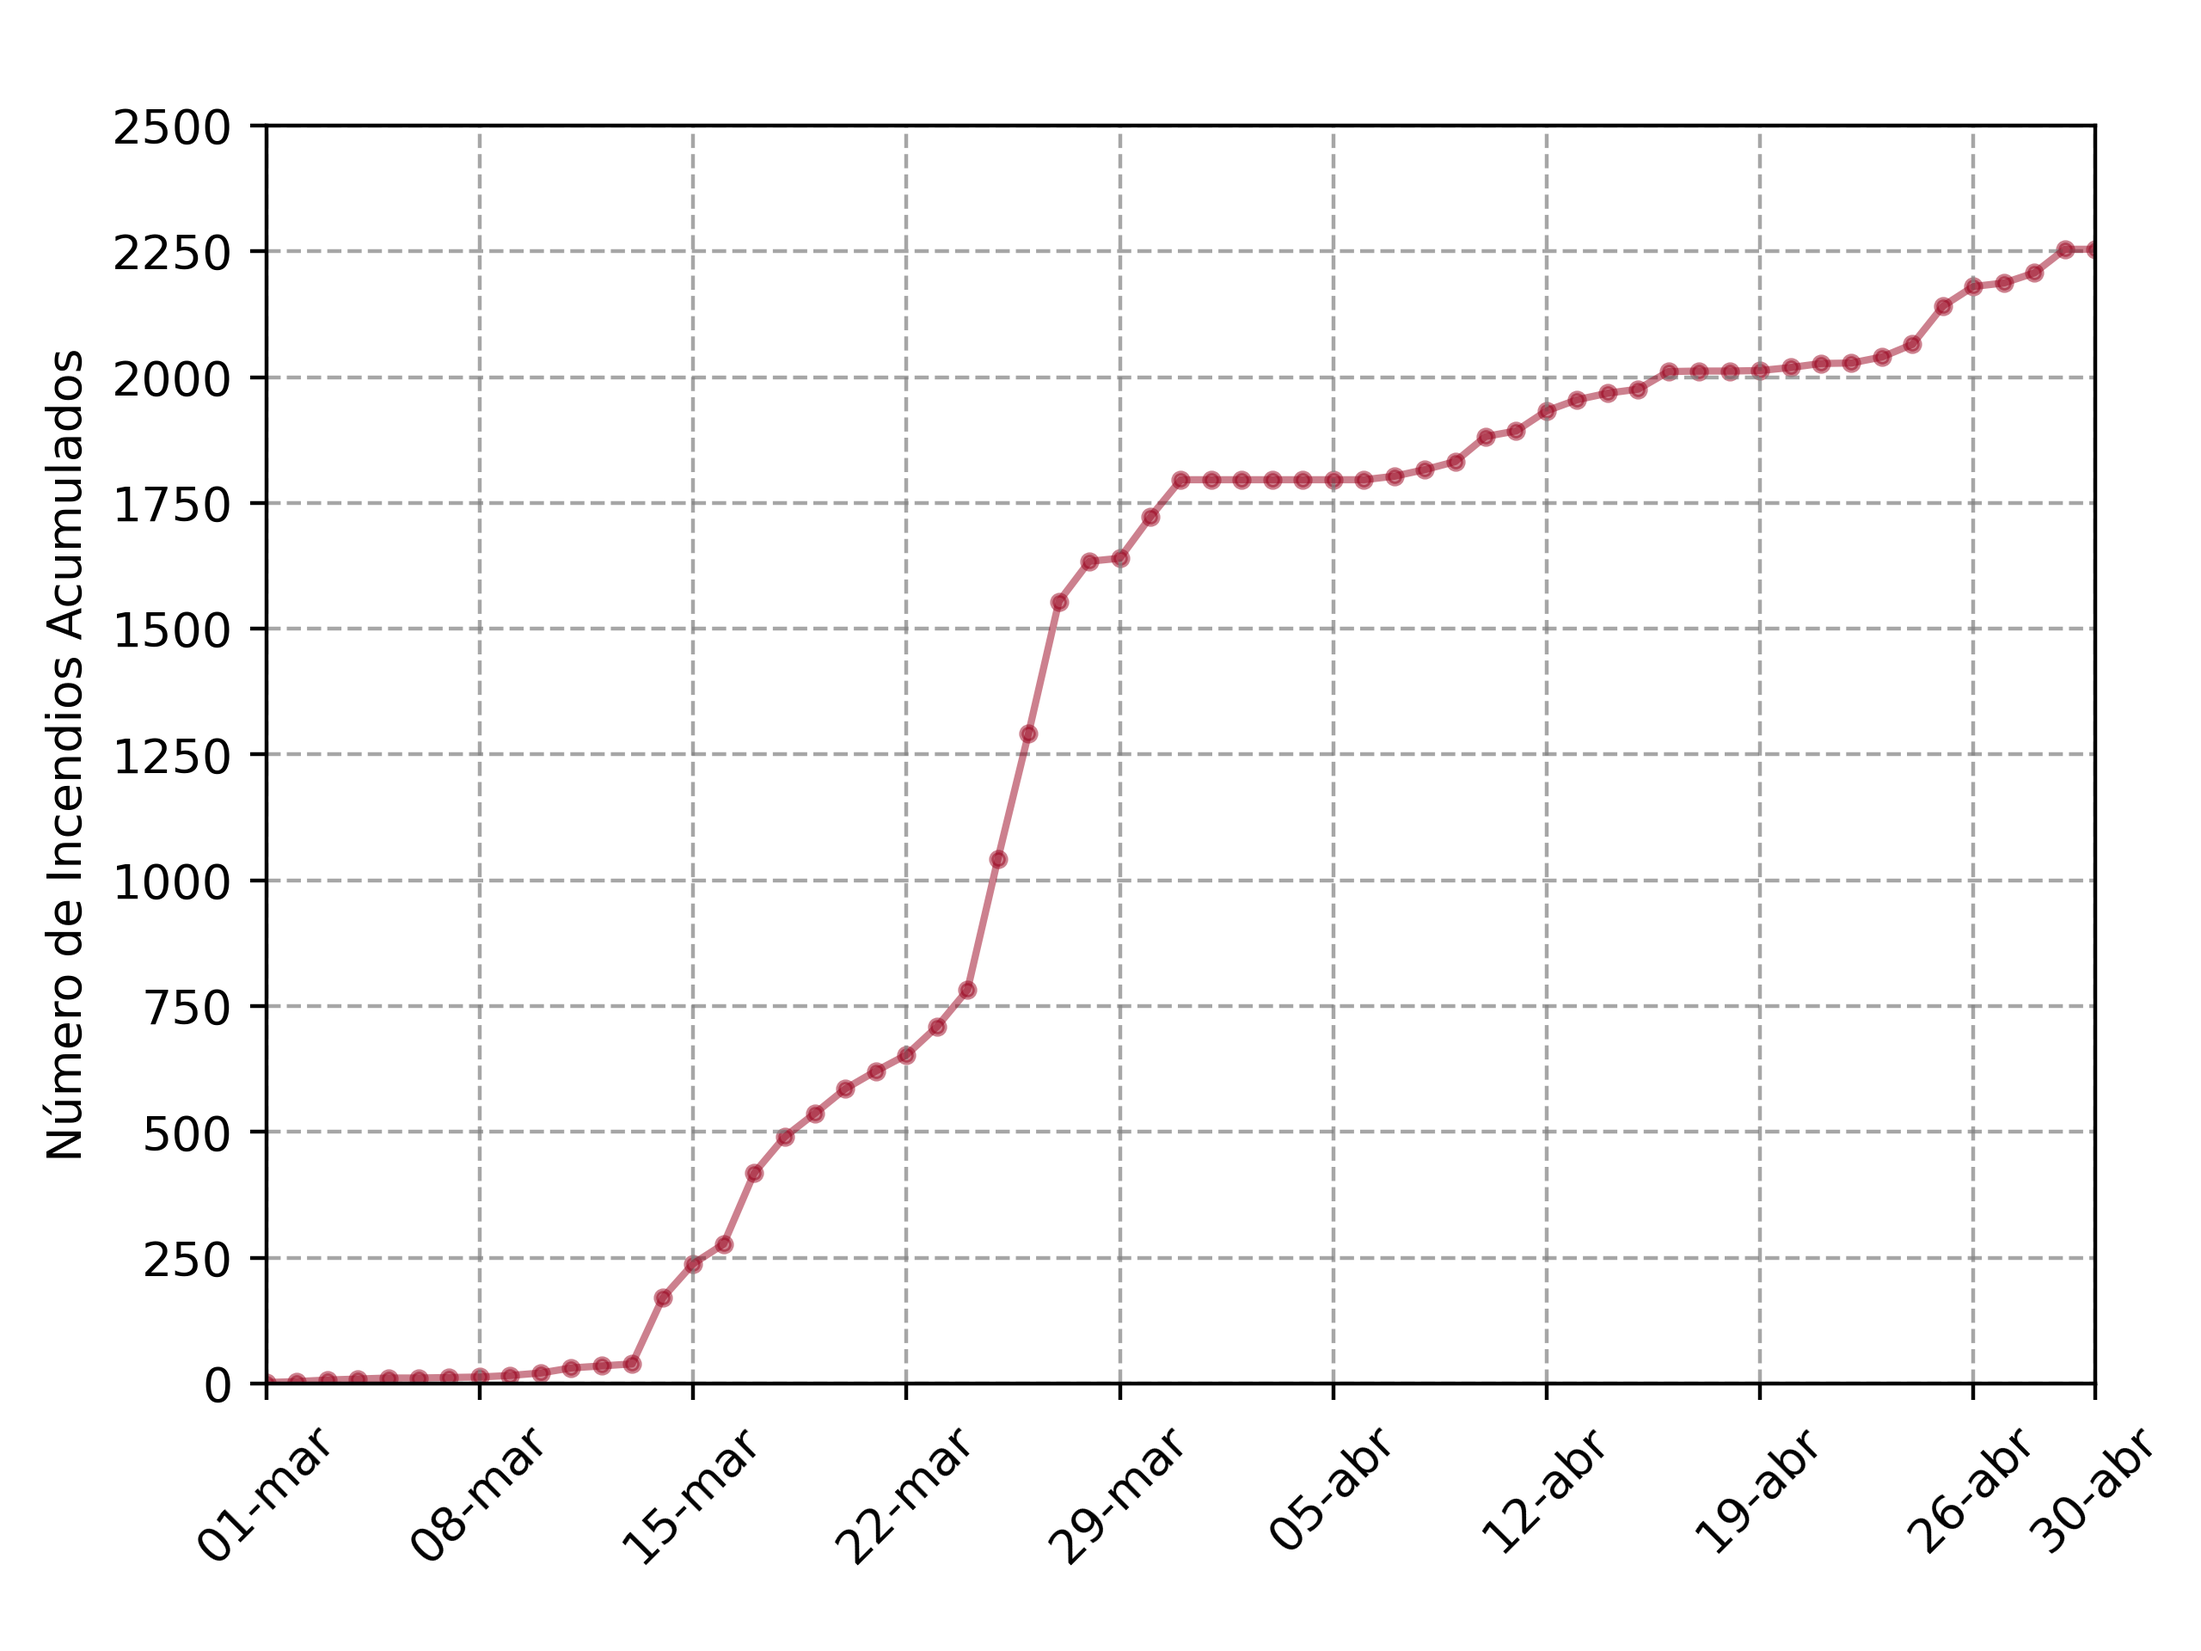
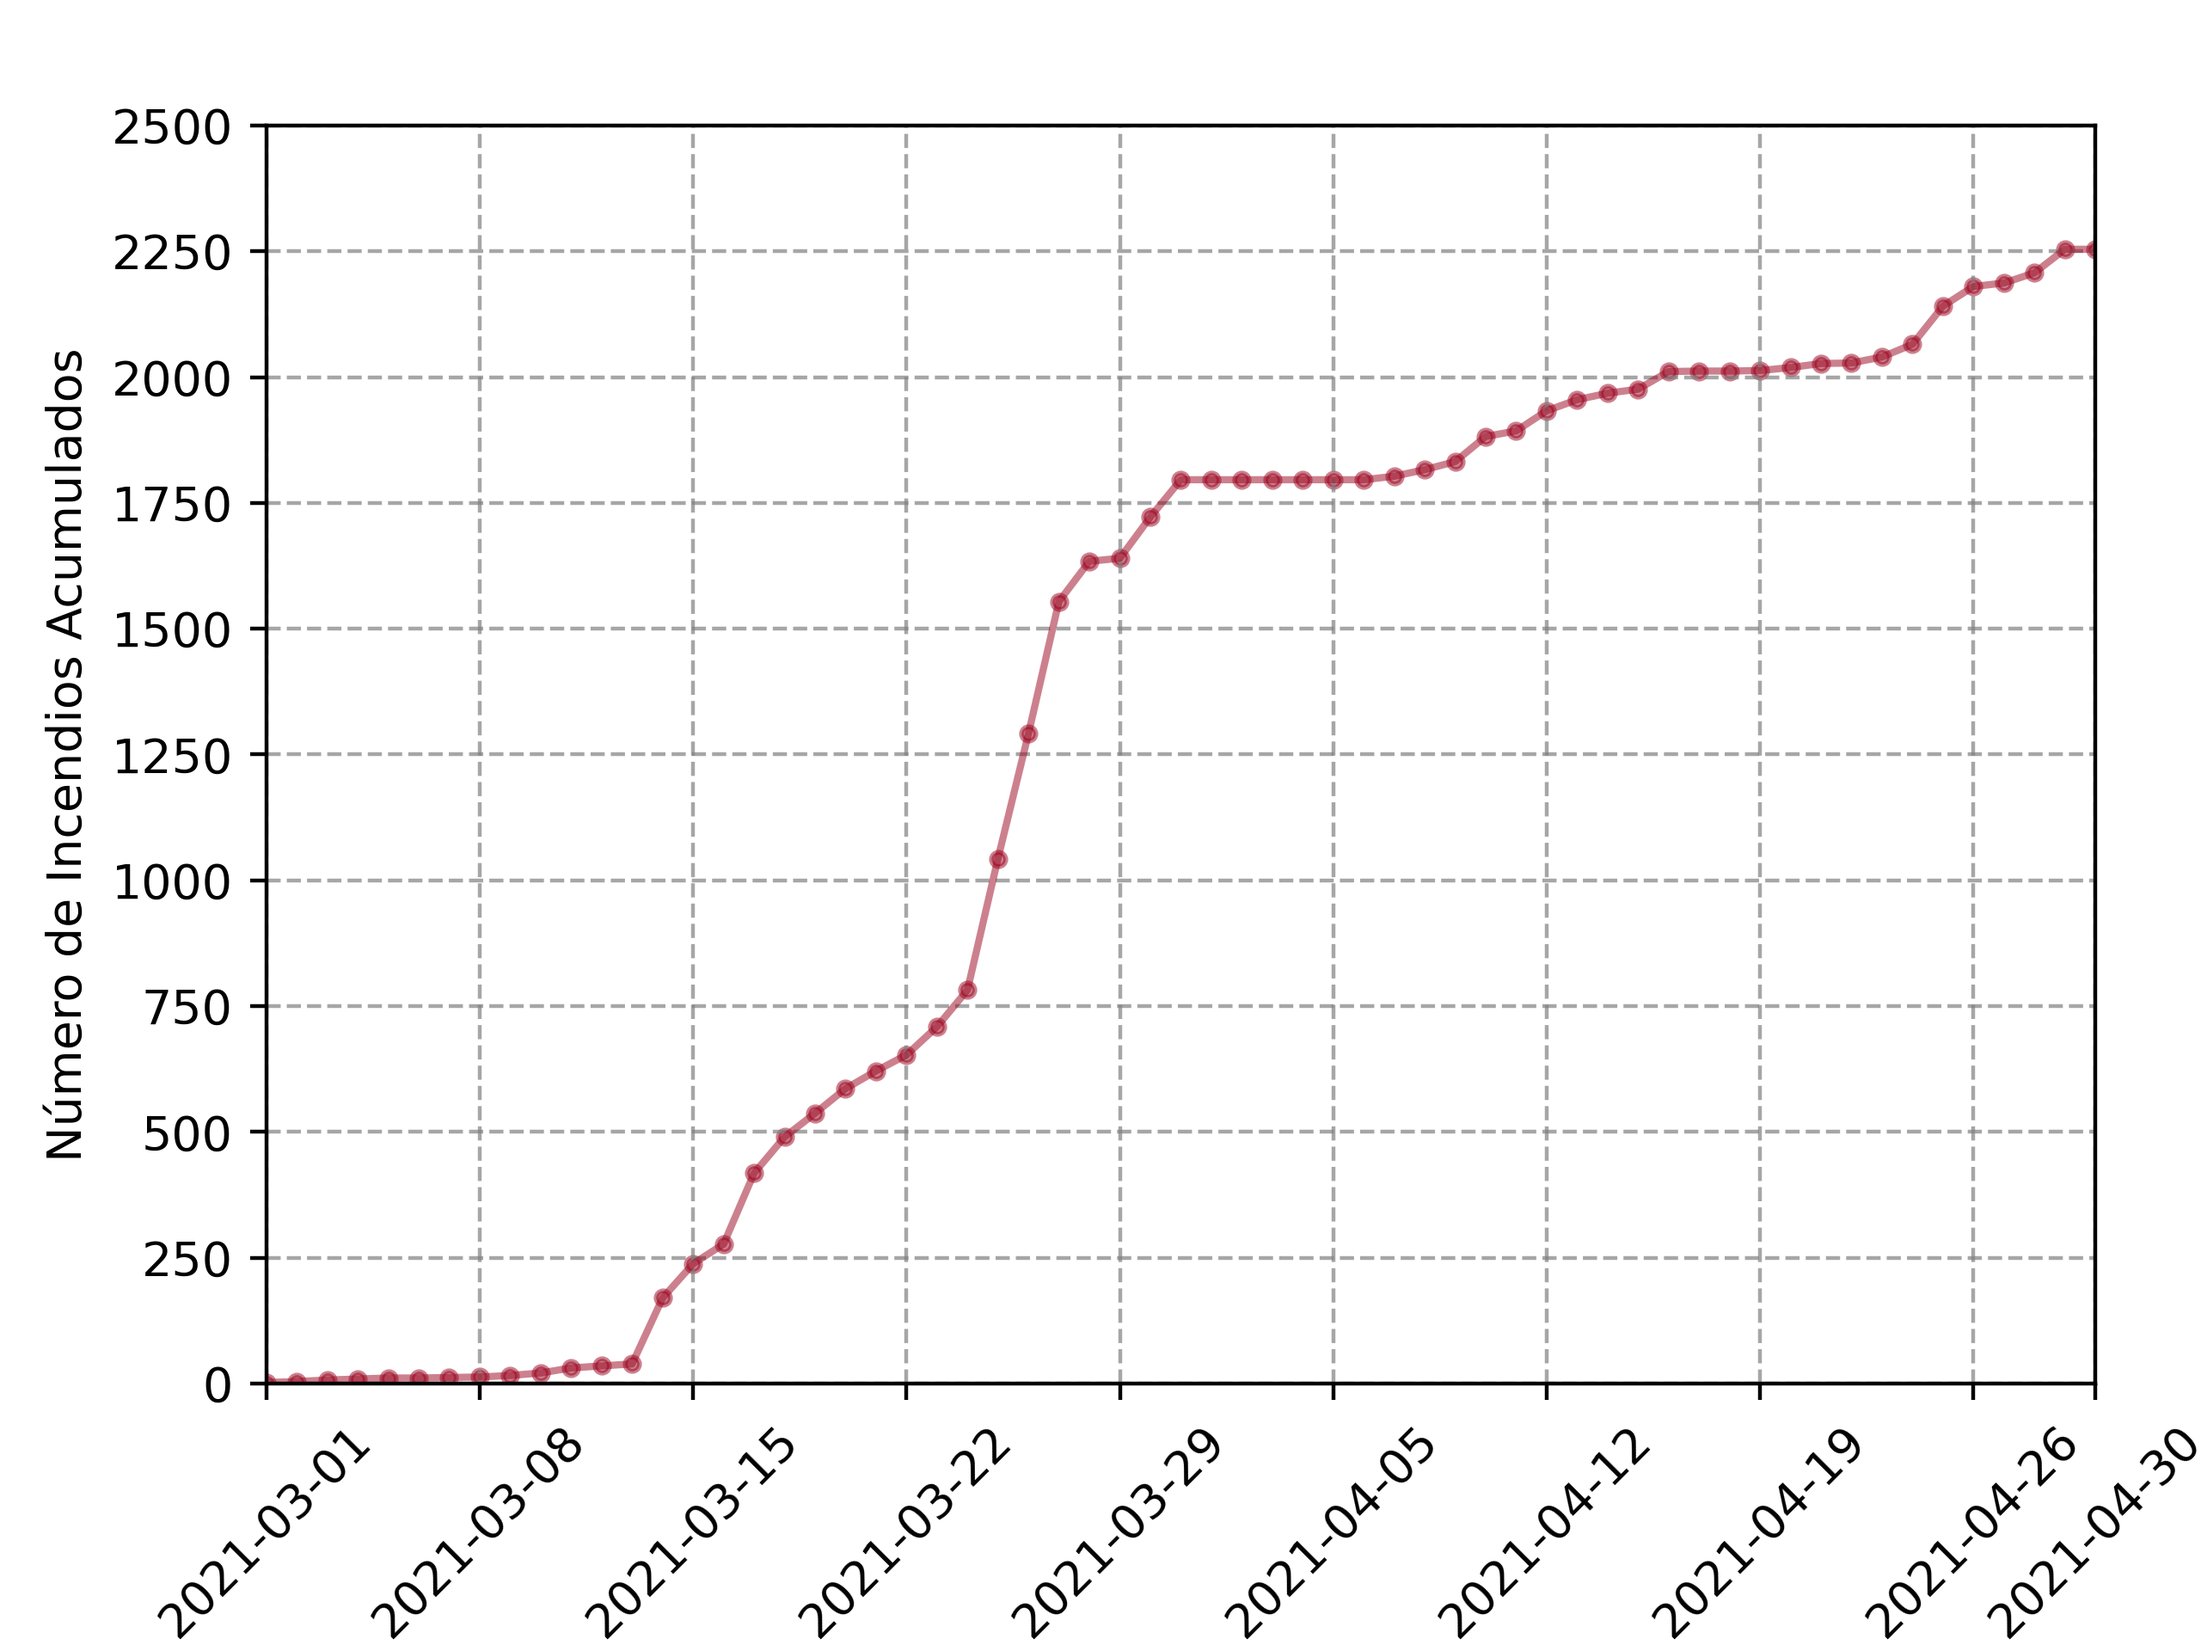
Change structure to integrate git branches

diff --git a/Scripts/Graphics_Fire_Accumulative.py b/Scripts/Graphics_Fire_Accumulative.py
@@ -1,6 +1,4 @@
-import matplotlib.pyplot as plt
-import pandas as pd
-import numpy as np
+from Class_list import *
 
 
 def obtain_ticks(data, day_separation):
@@ -23,32 +21,32 @@ def obtain_ticks(data, day_separation):
 
 
 def format_data(data):
-    data.index = pd.to_datetime(data["Dates"]).dt.strftime("%d-%b")
+    data.index = pd.to_datetime(data["Dates"])
     data = data.drop("Dates", 1)
     return data
 
 
-inputs = {
-    "path data": "../Data/",
-    "path graphics": "../Graphics/",
+parameters = {
     "file data": "NI.csv",
     "file results": "NIA.csv",
     "graphics file": "Fire_Accumulative.png",
-    "city": "Nuevo_Leon",
+    "City name": "Nuevo_Leon",
     "Days separation": 7,
+    "Y limit": 2500,
+    "Delta y": 250,
 }
+# Lectura de los parametros de cada ciudad
+city = city_list(city=parameters["City name"])
 # Lectura de los datos
-data = pd.read_csv("{}{}/{}".format(inputs["path data"],
-                                    inputs["city"],
-                                    inputs["file data"]))
+data = pd.read_csv("{}{}".format(city.parameters["path data"],
+                                 parameters["file data"]))
 data = format_data(data)
 data["NIA"] = data.cumsum()
-data.to_csv("{}{}/{}".format(inputs["path data"],
-                             inputs["city"],
-                             inputs["file results"]))
+data.to_csv("{}{}".format(city.parameters["path data"],
+                          parameters["file results"]))
 # Extraccion de las fechas seleccionadas
 dates = obtain_ticks(data,
-                     inputs["Days separation"])
+                     parameters["Days separation"])
 # Limites de las graficas
 plt.subplots_adjust(left=0.121,
                     right=0.952,
@@ -65,21 +63,21 @@ plt.scatter(data.index, list(data["NIA"]),
 # Limites de las graficas
 plt.xlim(dates[0],
          dates[-1])
-plt.ylim(0)
+plt.ylim(0,
+         parameters["Y limit"])
 # Etiqueta en el eje y
 plt.ylabel("Número de Incendios Acumulados")
 # Cambio en las etiquetas de los ejes x y y
 plt.xticks(dates,
            rotation=45)
 plt.yticks(np.arange(0,
-                     2500+250,
-                     250))
+                     parameters["Y limit"]+parameters["Delta y"],
+                     parameters["Delta y"]))
 # Creación del grid
 plt.grid(ls="--",
          color="grey",
          alpha=0.7)
 # Guardado de la grafica
-plt.savefig("{}{}/{}".format(inputs["path graphics"],
-                             inputs["city"],
-                             inputs["graphics file"]),
+plt.savefig("{}{}".format(city.parameters["path graphics"],
+                          parameters["graphics file"]),
             dpi=400)

diff --git a/Scripts/Graphics_Bar_confidence.py b/Scripts/Graphics_Bar_confidence.py
@@ -25,20 +25,15 @@ def autolabel(ax, rects):
                     ha='center', va='bottom',)
 
 
-inputs = {
+parameters = {
     "graphics name": "Bar_Confidence_percentage.png",
-    "City name": "Nuevo Leon",
+    "City name": "Nuevo_Leon",
 }
 # Lectura de los parametros de cada ciudad
-citys = city_list()
-parameters = citys.select_city_parameters(inputs["City name"])
+city = city_list(city=parameters["City name"])
 # Lectura de los datos de FIRMS
-FIRMS = FIRMS_data(parameters["path data"],
-                   parameters["file data"],
-                   parameters["lon"],
-                   parameters["lat"],
-                   parameters["day initial"],
-                   parameters["day final"])
+FIRMS = FIRMS_data(parameters=city.parameters,
+                   select_nominal_data=False)
 # Conteo de datos para cada tipo de dato
 count_confidence = count_data_confidence(FIRMS.data)
 # Ploteo de cada columna
@@ -51,6 +46,5 @@ rect[2].set_color("#57cc99")
 ax.set_ylim(0, 100)
 ax.set_ylabel("Frecuencia de intervalo de confianza (%)")
 ax.set_xlabel("nivel de confianza")
-plt.savefig("{}{}/{}".format(parameters["path graphics"],
-                             parameters["city"],
-                             inputs["graphics name"]))
+plt.savefig("{}{}".format(city.parameters["path graphics"],
+                          parameters["graphics name"]))

diff --git a/Scripts/Class_list.py b/Scripts/Class_list.py
@@ -16,7 +16,7 @@ class city_list:
                 "lat": [-33.5, -32.5],
                 "delta": 0.25,
             },
-            "Parana_2021": {
+            "Parana_2021_May": {
                 "day initial": "2021-05-01",
                 "day final": "2021-06-01",
                 "lon": [-60.75, -60],
@@ -46,9 +46,6 @@ class city_list:
 
     def select_city_parameters(self, city_name=""):
         self.parameters.update(self.citys[city_name])
-        self.parameters["city"] = city_name
-        self.parameters["path data"] += city_name+"/"
-        self.parameters["path graphics"] += city_name+"/"
 
 
 class FIRMS_data:
